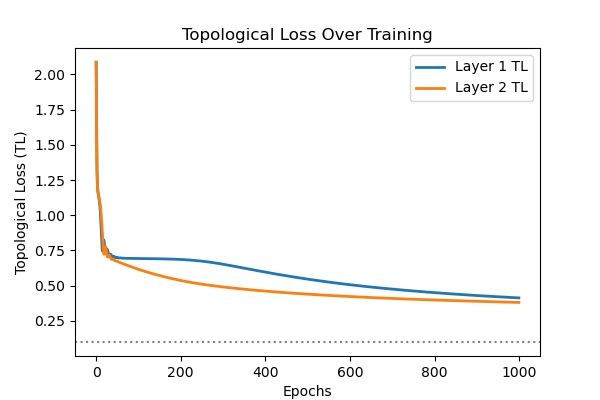
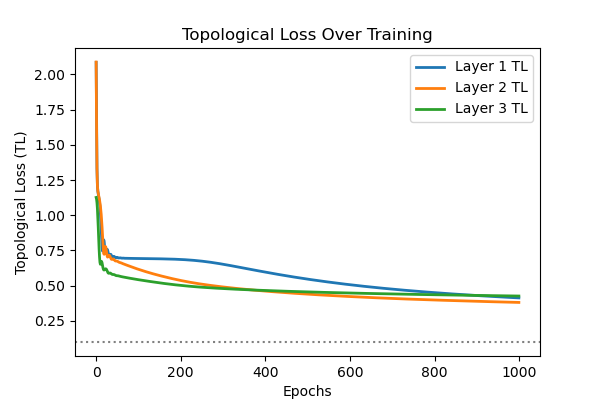
added another layer, organized codebase, wrote README

Changed region(s): [[0.15, 0.48, 0.87, 0.75], [0.69, 0.24, 0.9, 0.3]]

diff --git a/forward_forward_topoloss/model.py b/forward_forward_topoloss/model.py
@@ -12,8 +12,10 @@ class Net(nn.Module):
     def __init__(self, dims, checkpoint_path="checkpoints/model_checkpoint.pth"):
         super().__init__()
         self.layers = []
-        for d in range(len(dims) - 1):
-            self.layers += [Layer(dims[d], dims[d + 1]).cuda()]
+        self.layers = nn.ModuleList([
+            Layer(dims[d], dims[d + 1], last_layer=(d == len(dims) - 2)).to(device)
+            for d in range(len(dims) - 1)
+        ])
         self.checkpoint_path = checkpoint_path
         self.accuracy_history = []
         
@@ -40,47 +42,54 @@ class Net(nn.Module):
             h_pos, h_neg = layer.train(h_pos, h_neg)
         
         self.save_checkpoint()
+    
+    def _generate_checkpoint_path(self, dims, lr):
+        """Generates a filename based on the model hyperparameters."""
+        os.makedirs(self.checkpoint_dir, exist_ok=True)
+        layer_sizes = "_".join(map(str, dims))  
+        return f"{self.checkpoint_dir}/model_{layer_sizes}_lr{lr}.pth"
         
     def save_checkpoint(self):
-        """Saves model state after training."""
-        os.makedirs("checkpoints", exist_ok=True)
+        """Saves model state after training with a descriptive filename."""
         checkpoint = {
             "model_state": self.state_dict(),
             "accuracy_history": self.accuracy_history,
         }
         torch.save(checkpoint, self.checkpoint_path)
-        print(f"✅ Model saved after training: {self.checkpoint_path}")
+        print(f"Model saved: {self.checkpoint_path}")
     
     def load_checkpoint(self):
-        """Loads model state if checkpoint exists."""
+        """Loads model state if a checkpoint exists."""
         if os.path.exists(self.checkpoint_path):
             checkpoint = torch.load(self.checkpoint_path)
             self.load_state_dict(checkpoint["model_state"])
             self.accuracy_history = checkpoint["accuracy_history"]
-            print(f"🔄 Loaded saved model from: {self.checkpoint_path}")
+            print(f"Loaded saved model: {self.checkpoint_path}")
 
     def get_accuracy_history(self):
         return self.accuracy_history
 
 class Layer(nn.Linear):
-    def __init__(self, in_features, out_features,
+    def __init__(self, in_features, out_features,last_layer=False, num_epochs = 1000,
                  bias=True, device=None, dtype=None):
         super().__init__(in_features, out_features, bias, device, dtype)
         self.relu = torch.nn.ReLU()
         self.opt = Adam(self.parameters(), lr=0.03)
         self.threshold = 2.0
-        self.num_epochs = 1000
-        self.topo_loss_fn = TopoLoss(
-                    losses=[LaplacianPyramid.from_layer(
-                        model=self,
-                        layer=self,  
-                        factor_h=5.0, 
-                        factor_w=5.0, 
-                        scale=1.0 # This is the scale factor for the Laplacian Pyramid
-                    )]
-                )
+        self.num_epochs = num_epochs
         self.loss_history = []  # Store loss per epoch
-    
+        self.last_layer = last_layer 
+        
+        if not last_layer:
+            self.topo_loss_fn = TopoLoss(
+                        losses=[LaplacianPyramid.from_layer(
+                            model=self,
+                            layer=self,  
+                            factor_h=5.0, 
+                            factor_w=5.0, 
+                            scale=1.0 # This is the scale factor for the Laplacian Pyramid
+                        )]
+                    )
     def forward(self, x):
         x_direction = x / (x.norm(2, 1, keepdim=True) + 1e-4)
         return self.relu(
@@ -88,16 +97,18 @@ class Layer(nn.Linear):
             self.bias.unsqueeze(0))
 
     def train(self, x_pos, x_neg):
-        for i in tqdm(range(self.num_epochs)):
+        """Trains this layer for `num_epochs` iterations."""
+        for _ in tqdm(range(self.num_epochs), desc="Training Layer"):
             g_pos = self.forward(x_pos).pow(2).mean(1)
             g_neg = self.forward(x_neg).pow(2).mean(1)
 
-            base_loss = torch.log(1 + torch.exp(torch.cat([
-                -g_pos + self.threshold, g_neg - self.threshold
-            ]))).mean()
+            base_loss = torch.log(1 + torch.exp(torch.cat([-g_pos + self.threshold, g_neg - self.threshold]))).mean()
 
-            topo_loss_value = self.topo_loss_fn.compute(model=self)
-            loss = base_loss + topo_loss_value
+            if not self.last_layer:
+                topo_loss_value = self.topo_loss_fn.compute(model=self)
+                loss = base_loss + topo_loss_value
+            else:
+                loss = base_loss
 
             self.loss_history.append(loss.item())  # Save loss
 

diff --git a/forward_forward_topoloss/utils.py b/forward_forward_topoloss/utils.py
@@ -1,7 +1,3 @@
-import torch
-import matplotlib.pyplot as plt
-import os
-
 def overlay_y_on_x(x, y):
     """Replace the first 10 pixels of data [x] with one-hot-encoded label [y]
     """
@@ -10,57 +6,3 @@ def overlay_y_on_x(x, y):
     x_[range(x.shape[0]), y] = x.max()
     return x_
 
-def visualize_sample(data, name='', idx=0):
-    """Visualizes and saves a sample image."""
-    
-    os.makedirs("plots", exist_ok=True)
-    filename = f"plots/{name}.png"
-    if os.path.exists(filename):
-        print(f"Skipping {filename}, already exists")
-        return
-
-    reshaped = data[idx].cpu().reshape(28, 28)
-    plt.figure(figsize=(4, 4))
-    plt.title(name)
-    plt.imshow(reshaped, cmap="gray")
-    plt.savefig(filename)  
-    print(f"Saved: {filename}")
-
-    plt.show() 
-def plot_loss(loss_values, name="topological_loss.png"):
-    """Plots and saves the Topological Loss graph."""
-    os.makedirs("plots", exist_ok=True)
-    if not loss_values:
-        print("Warning: No loss data to plot!")
-        return
-    
-    plt.figure(figsize=(6, 4))
-    for i, loss_curve in enumerate(loss_values):
-        plt.plot(loss_curve, label=f'Layer {i+1} TL', linewidth=2)
-    plt.axhline(y=0.1, color='gray', linestyle='dotted')
-    plt.xlabel("Epochs")
-    plt.ylabel("Topological Loss (TL)")
-    plt.title("Topological Loss Over Training")
-    plt.legend()
-    filename = f"plots/{name}.png"
-    plt.savefig(filename)
-    plt.show()
-
-def plot_accuracy(accuracy_history, name="accuracy.png"):
-    """Plots and saves the Accuracy graph."""
-    if not accuracy_history:  
-        print("Warning: No accuracy data to plot!")
-        return
-    
-    os.makedirs("plots", exist_ok=True)
-    epochs = list(range(1, len(accuracy_history) + 1))  # Correct x-axis range
-    plt.figure(figsize=(6, 4))
-    plt.plot(epochs, accuracy_history, label="Accuracy", linewidth=2)
-    plt.axhline(y=90, color='gray', linestyle='dotted')
-    plt.xlabel("Epochs")
-    plt.ylabel("Accuracy")
-    plt.title("Accuracy Over Training")
-    plt.legend()
-    filename = f"plots/{name}.png"
-    plt.savefig(filename)
-    plt.show()

diff --git a/forward_forward_topoloss/visualizations.py b/forward_forward_topoloss/visualizations.py
@@ -1,0 +1,57 @@
+import matplotlib.pyplot as plt
+import os
+
+def visualize_sample(data, name='', idx=0):
+    """Visualizes and saves a sample image."""
+    
+    os.makedirs("plots", exist_ok=True)
+    filename = f"plots/{name}.png"
+    if os.path.exists(filename):
+        print(f"Skipping {filename}, already exists")
+        return
+
+    reshaped = data[idx].cpu().reshape(28, 28)
+    plt.figure(figsize=(4, 4))
+    plt.title(name)
+    plt.imshow(reshaped, cmap="gray")
+    plt.savefig(filename)  
+    print(f"Saved: {filename}")
+
+    plt.show() 
+def plot_loss(loss_values, name="topological_loss.png"):
+    """Plots and saves the Topological Loss graph."""
+    os.makedirs("plots", exist_ok=True)
+    if not loss_values:
+        print("Warning: No loss data to plot!")
+        return
+    
+    plt.figure(figsize=(6, 4))
+    for i, loss_curve in enumerate(loss_values):
+        plt.plot(loss_curve, label=f'Layer {i+1} TL', linewidth=2)
+    plt.axhline(y=0.1, color='gray', linestyle='dotted')
+    plt.xlabel("Epochs")
+    plt.ylabel("Topological Loss (TL)")
+    plt.title("Topological Loss Over Training")
+    plt.legend()
+    filename = f"plots/{name}.png"
+    plt.savefig(filename)
+    plt.show()
+
+def plot_accuracy(accuracy_history, name="accuracy.png"):
+    """Plots and saves the Accuracy graph."""
+    if not accuracy_history:  
+        print("Warning: No accuracy data to plot!")
+        return
+    
+    os.makedirs("plots", exist_ok=True)
+    epochs = list(range(1, len(accuracy_history) + 1))  # Correct x-axis range
+    plt.figure(figsize=(6, 4))
+    plt.plot(epochs, accuracy_history, label="Accuracy", linewidth=2)
+    plt.axhline(y=90, color='gray', linestyle='dotted')
+    plt.xlabel("Epochs")
+    plt.ylabel("Accuracy")
+    plt.title("Accuracy Over Training")
+    plt.legend()
+    filename = f"plots/{name}.png"
+    plt.savefig(filename)
+    plt.show()

diff --git a/forward_forward_topoloss/main.py b/forward_forward_topoloss/main.py
@@ -1,7 +1,7 @@
 import torch
 from data import prepare_data
 from model import Net
-from utils import visualize_sample, plot_loss, plot_accuracy
+from visualizations import visualize_sample, plot_loss, plot_accuracy
 from train import train_and_evaluate
 
 '''
@@ -13,7 +13,7 @@ device = torch.device("cuda" if torch.cuda.is_available() else "cpu")
 torch.manual_seed(1234)
 train_loader, test_loader, x, y, x_pos, x_neg = prepare_data()
 
-net = Net([784, 500, 500])  
+net = Net([784, 500, 500, 10])  
 
 for data, name in zip([x, x_pos, x_neg], ['orig', 'pos', 'neg']):
     visualize_sample(data, name)
@@ -25,8 +25,8 @@ loss_values, net = train_and_evaluate(net, x, y, x_pos, x_neg, test_loader)
 accuracy_histories = net.get_accuracy_history()
 
 # Plot results
-plot_loss([layer.loss_history for layer in net.layers], name="topological_loss.png")
-plot_accuracy(accuracy_histories, name="accuracy.png")
+plot_loss([layer.loss_history for layer in net.layers], name="topological_loss")
+plot_accuracy(accuracy_histories, name="accuracy")
 
 
 

diff --git a/forward_forward_topoloss/data.py b/forward_forward_topoloss/data.py
@@ -2,7 +2,7 @@ import torch
 from torchvision.datasets import MNIST
 from torchvision.transforms import Compose, ToTensor, Normalize, Lambda
 from torch.utils.data import DataLoader
-from utils import overlay_y_on_x
+from utils import overlay_y_on_x 
 
 device = torch.device("cuda" if torch.cuda.is_available() else "cpu")
 

diff --git a/README.md b/README.md
@@ -1,0 +1,4 @@
+# Forward-Forward Toponet
+### Utilizing forward forward archtecture with TopoNet
+
+Author: Kushal Dudipala
